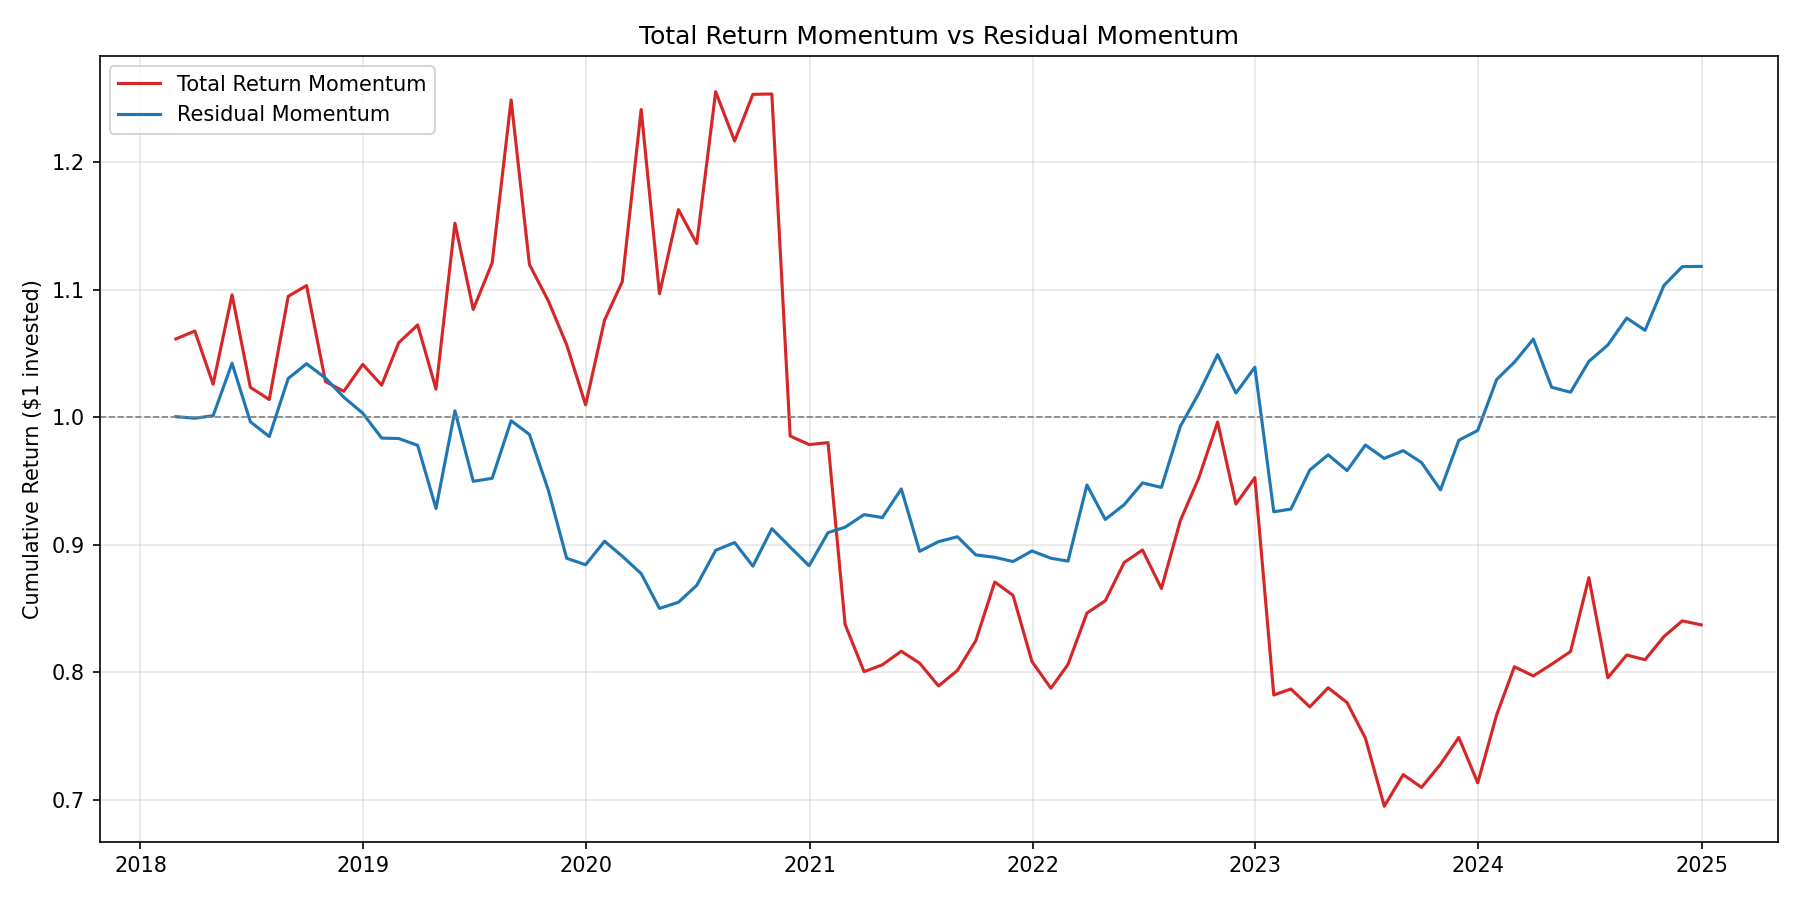
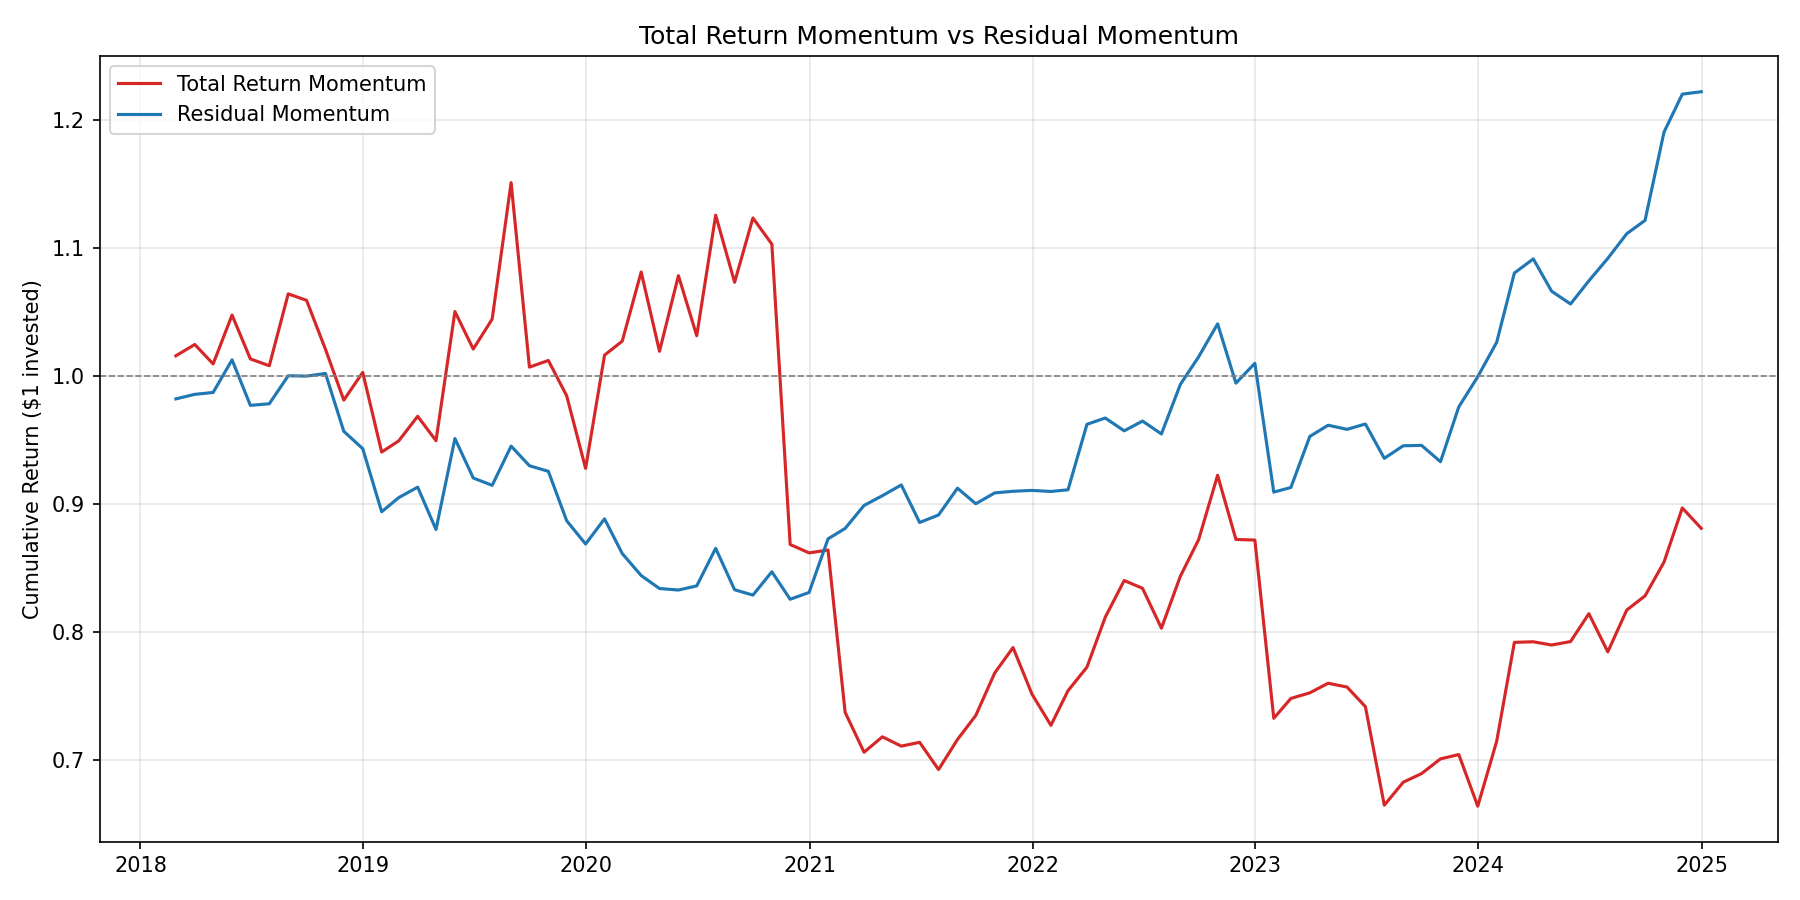
Expand to S&P 1500, add price and data quality filters
- Universe: 462 → 1469 stocks (SP500 + SP400 + SP600)
- Price filter: exclude stocks below $5 (paper uses $1)
- Data quality: exclude |monthly return| > 300% (yfinance
  corporate action errors, e.g. CHRD +30991%)
- Residual momentum Sharpe: 0.21 (K=1), 0.35 (K=3), 0.24 (K=6)
- Vol ratio ~0.50x across all holding periods
- Conditional FF R²: 0.39 (total) → 0.08 (residual)
- Total return momentum Sharpe ≈ 0 on S&P 1500; residual
  consistently positive

diff --git a/data/download_data.py b/data/download_data.py
@@ -1,61 +1,218 @@
 """
-download_data.py - Download US equity price data
+download_data.py - Download price data for S&P 500 or S&P 1500
 
-Reads S&P 500 tickers from a local CSV file and downloads
-daily close prices and volumes from Yahoo Finance.
+Usage:
+    python3 data/download_data.py              # S&P 1500 (default)
+    python3 data/download_data.py --sp500      # S&P 500 only (legacy)
 """
 import pandas as pd
 import yfinance as yf
 import os
+import sys
+import time
+import requests
+
+def _read_wiki_table(url):
+    """Fetch Wikipedia page with proper headers, return parsed tables."""
+    headers = {
+        "User-Agent": "EquityFactorResearch/1.0 (student project)"
+    }
+    resp = requests.get(url, headers=headers)
+    resp.raise_for_status()
+    return pd.read_html(resp.text)
+
+def get_sp500_tickers():
+    """Scrape current S&P 500 constituents from Wikipedia."""
+    url = "https://en.wikipedia.org/wiki/List_of_S%26P_500_companies"
+    table = _read_wiki_table(url)
+    tickers = table[0]["Symbol"].tolist()
+    tickers = [t.replace(".", "-") for t in tickers]
+    print(f"  S&P 500:  {len(tickers)} tickers")
+    return tickers
 
 
-def get_tickers():
+def get_sp400_tickers():
+    """Scrape current S&P 400 MidCap constituents from Wikipedia."""
+    url = "https://en.wikipedia.org/wiki/List_of_S%26P_400_companies"
+    table = _read_wiki_table(url)
+    # The table structure: first table has the constituents
+    # Symbol column may be named "Symbol" or "Ticker Symbol"
+    df = table[0]
+    col = [c for c in df.columns if "ymbol" in str(c) or "icker" in str(c)]
+    if col:
+        tickers = df[col[0]].tolist()
+    else:
+        # Fallback: first column is often the ticker
+        tickers = df.iloc[:, 0].tolist()
+    tickers = [str(t).strip().replace(".", "-") for t in tickers]
+    # Filter out any non-ticker entries
+    tickers = [t for t in tickers if t.isalpha() or "-" in t]
+    print(f"  S&P 400:  {len(tickers)} tickers")
+    return tickers
+
+
+def get_sp600_tickers():
+    """Scrape current S&P 600 SmallCap constituents from Wikipedia."""
+    url = "https://en.wikipedia.org/wiki/List_of_S%26P_600_companies"
+    table = _read_wiki_table(url)
+    df = table[0]
+    col = [c for c in df.columns if "ymbol" in str(c) or "icker" in str(c)]
+    if col:
+        tickers = df[col[0]].tolist()
+    else:
+        tickers = df.iloc[:, 0].tolist()
+    tickers = [str(t).strip().replace(".", "-") for t in tickers]
+    tickers = [t for t in tickers if t.isalpha() or "-" in t]
+    print(f"  S&P 600:  {len(tickers)} tickers")
+    return tickers
+
+
+def get_sp1500_tickers():
+    """Get S&P 1500 = S&P 500 + S&P 400 + S&P 600."""
+    print("Fetching S&P 1500 constituents from Wikipedia...")
+    t500 = get_sp500_tickers()
+    t400 = get_sp400_tickers()
+    t600 = get_sp600_tickers()
+
+    # Deduplicate (shouldn't overlap, but just in case)
+    all_tickers = sorted(set(t500 + t400 + t600))
+    print(f"  Combined: {len(all_tickers)} unique tickers")
+
+    # Tag each ticker with its index membership
+    tags = {}
+    for t in t500:
+        tags[t] = "SP500"
+    for t in t400:
+        tags[t] = "SP400"
+    for t in t600:
+        tags[t] = "SP600"
+
+    return all_tickers, tags
+
+
+def download_price_data(tickers, start="2015-01-01", end="2024-12-31",
+                        batch_size=100):
     """
-    Read ticker list from local CSV.
-
-    We use a static local file instead of scraping Wikipedia's S&P 500
-    page at runtime because pandas.read_html() is blocked by Wikipedia's
-    HTTP 403 policy. A local file also makes the pipeline reproducible
-    without depending on external HTML structure.
+    Download daily close prices and volumes via yfinance.
+    Downloads in batches to avoid timeouts with large ticker lists.
     """
-    df = pd.read_csv("data/sp500_tickers.csv")
-    return df["ticker"].tolist()
+    print(f"\nDownloading {len(tickers)} tickers from {start} to {end}...")
 
-def download_price_data(tickers, start="2015-01-01", end="2024-12-31"):
-    """
-    Download daily close prices and volumes.
+    all_close = []
+    all_volume = []
+    failed = []
 
-    Drops tickers with fewer than 500 days of data.
-    Returns: (close, volume) DataFrames
-    """
-    print(f"Downloading {len(tickers)} tickers from {start} to {end}...")
-    raw = yf.download(tickers, start=start, end=end,
-                      auto_adjust=True, threads=True)
+    n_batches = (len(tickers) + batch_size - 1) // batch_size
 
-    close = raw["Close"]
-    volume = raw["Volume"]
+    for i in range(0, len(tickers), batch_size):
+        batch = tickers[i:i + batch_size]
+        batch_num = i // batch_size + 1
+        print(f"  Batch {batch_num}/{n_batches}: "
+              f"{batch[0]}..{batch[-1]} ({len(batch)} tickers)")
 
+        try:
+            raw = yf.download(batch, start=start, end=end,
+                              group_by="ticker", auto_adjust=True,
+                              threads=True, progress=False)
+
+            if len(batch) == 1:
+                # yfinance returns flat columns for single ticker
+                t = batch[0]
+                if "Close" in raw.columns:
+                    close = raw[["Close"]].rename(columns={"Close": t})
+                    volume = raw[["Volume"]].rename(columns={"Volume": t})
+                    all_close.append(close)
+                    all_volume.append(volume)
+                else:
+                    failed.append(t)
+            else:
+                for t in batch:
+                    try:
+                        if (t, "Close") in raw.columns:
+                            c = raw[(t, "Close")].rename(t)
+                            v = raw[(t, "Volume")].rename(t)
+                            all_close.append(c)
+                            all_volume.append(v)
+                        else:
+                            failed.append(t)
+                    except Exception:
+                        failed.append(t)
+
+        except Exception as e:
+            print(f"    Batch failed: {e}")
+            failed.extend(batch)
+
+        # Brief pause between batches to be polite to Yahoo
+        if i + batch_size < len(tickers):
+            time.sleep(1)
+
+    # Combine
+    close = pd.concat(all_close, axis=1) if all_close else pd.DataFrame()
+    volume = pd.concat(all_volume, axis=1) if all_volume else pd.DataFrame()
+
+    if failed:
+        print(f"\n  Failed to download: {len(failed)} tickers")
+        if len(failed) <= 20:
+            print(f"    {failed}")
+
+    # Filter: require at least 500 trading days
     min_days = 500
-    close = close.loc[:, close.count() >= min_days]
-    volume = volume.loc[:, volume.count() >= min_days]
+    if not close.empty:
+        good = close.columns[close.count() >= min_days]
+        close = close[good]
+        volume = volume[[c for c in good if c in volume.columns]]
 
-    common = close.columns.intersection(volume.columns)
-    close = close[common]
-    volume = volume[common]
-
-    print(f"Kept {len(common)} tickers with >= {min_days} days of data")
-    return close, volume
+    print(f"\n  Kept {close.shape[1]} tickers with >= {min_days} days of data")
+    return close, volume, failed
 
 
 if __name__ == "__main__":
-    tickers = get_tickers()
-    close, volume = download_price_data(tickers)
+    sp500_only = "--sp500" in sys.argv
 
     os.makedirs("data", exist_ok=True)
+
+    if sp500_only:
+        print("=== S&P 500 Universe ===")
+        tickers = get_sp500_tickers()
+        tags = {t: "SP500" for t in tickers}
+        ticker_file = "data/sp500_tickers.csv"
+    else:
+        print("=== S&P 1500 Universe ===")
+        tickers, tags = get_sp1500_tickers()
+        ticker_file = "data/sp1500_tickers.csv"
+
+    # Save ticker list with index membership
+    ticker_df = pd.DataFrame([
+        {"Ticker": t, "Index": tags.get(t, "Unknown")}
+        for t in sorted(tags.keys())
+    ])
+    ticker_df.to_csv(ticker_file, index=False)
+    print(f"Saved ticker list to {ticker_file}")
+
+    # Download
+    close, volume, failed = download_price_data(sorted(tags.keys()))
+
+    # Save
     close.to_csv("data/close_prices.csv")
     volume.to_csv("data/volumes.csv")
 
-    print(f"\nClose prices: {close.shape[0]} days x {close.shape[1]} stocks")
-    print(f"Volumes:      {volume.shape[0]} days x {volume.shape[1]} stocks")
-    print(f"Date range:   {close.index[0].date()} to {close.index[-1].date()}")
-    print("Saved to data/close_prices.csv and data/volumes.csv")
+    # Summary
+    print(f"\n{'=' * 50}")
+    print(f"  Close prices: {close.shape[0]} days x {close.shape[1]} stocks")
+    print(f"  Volumes:      {volume.shape[0]} days x {volume.shape[1]} stocks")
+    print(f"  Date range:   {close.index[0].date()} to "
+          f"{close.index[-1].date()}")
+
+    # Breakdown by index
+    if not sp500_only:
+        for idx_name in ["SP500", "SP400", "SP600"]:
+            count = sum(1 for c in close.columns
+                        if tags.get(c) == idx_name)
+            print(f"  {idx_name}: {count} stocks with data")
+
+    if failed:
+        pd.Series(failed).to_csv("data/failed_tickers.csv",
+                                 index=False, header=["Ticker"])
+        print(f"  Failed tickers saved to data/failed_tickers.csv")
+
+    print(f"\nSaved to data/close_prices.csv and data/volumes.csv")

diff --git a/factors/residual_momentum.py b/factors/residual_momentum.py
@@ -98,6 +98,17 @@ def prepare_data(csv_path="data/close_prices.csv"):
               f"{common_dates[-1].strftime('%Y-%m')}")
     print(f"FF3 factors loaded: {ff3.columns.tolist()}")
 
+    # Exclude stock-months with returns beyond ±300%.
+    # CRSP handles corporate actions (ticker changes, bankruptcy
+    # re-emergences, reverse splits) correctly; yfinance does not.
+    # This filter removes data errors, not genuine returns.
+    n_before = monthly_ret.notna().sum().sum()
+    monthly_ret = monthly_ret.where(monthly_ret.abs() <= 3.0)
+    excess_ret = excess_ret.where(monthly_ret.notna())
+    n_after = monthly_ret.notna().sum().sum()
+    print(f"Data quality filter (|ret| > 300%): "
+          f"removed {n_before - n_after} stock-months")
+
     return excess_ret, ff3, monthly_ret
 
 
@@ -482,6 +493,20 @@ if __name__ == "__main__":
         excess_ret, ff3, window=36)
     sig_total_raw = compute_total_return_momentum(monthly_ret)
 
+    # Price filter: exclude stocks below $5 in any given month.
+    # Paper excludes <$1; we use $5 given shorter sample and
+    # post-2015 price levels.
+    monthly_price = pd.read_csv(
+        "data/close_prices.csv", index_col=0, parse_dates=True
+    ).resample("ME").last()
+    monthly_price.index = monthly_price.index + pd.offsets.MonthEnd(0)
+    price_ok = monthly_price.reindex(
+        index=sig_resid.index, columns=sig_resid.columns) >= 5.0
+    sig_resid = sig_resid.where(price_ok)
+    sig_total_raw = sig_total_raw.where(price_ok)
+    n_excluded = (~price_ok).sum().sum()
+    print(f"\n  Price filter (<$5): excluded {n_excluded} stock-months")
+
     # Match stock pool: only use stocks where BOTH signals exist
     sig_total = sig_total_raw.where(sig_resid.notna())
     print(f"\n  Stock-month alignment:")
@@ -638,3 +663,42 @@ if __name__ == "__main__":
             print(f"  D10 months: {len(d10_arr)}, "
                   f"avg next-mo return: {np.mean(d10_arr):.2%}, "
                   f"total contrib: {np.sum(d10_arr):.2%}")
+
+# ── Diagnostic: worst months for total return momentum ──
+    print("\n── Total Return Momentum: Worst 10 Months ──")
+    assignments_t = form_decile_assignments(sig_total, n_quantiles=10)
+
+    month_details = []
+    for t in range(len(monthly_ret)):
+        if t not in assignments_t:
+            continue
+        date = monthly_ret.index[t]
+        fwd = monthly_ret.iloc[t]
+        ranks = assignments_t[t]
+
+        d1_stocks = ranks[ranks == 1].index
+        d10_stocks = ranks[ranks == 10].index
+
+        d1_ret = fwd[d1_stocks.intersection(fwd.dropna().index)]
+        d10_ret = fwd[d10_stocks.intersection(fwd.dropna().index)]
+
+        hedge = d10_ret.mean() - d1_ret.mean()
+        month_details.append({
+            "date": date, "hedge": hedge,
+            "d1_mean": d1_ret.mean(), "d10_mean": d10_ret.mean(),
+            "d1_max": d1_ret.max(), "d1_max_tk": d1_ret.idxmax() if len(d1_ret) > 0 else "",
+            "d1_top3": d1_ret.nlargest(3),
+            "d1_count": len(d1_ret),
+        })
+
+    md = sorted(month_details, key=lambda x: x["hedge"])
+
+    for m in md[:10]:
+        print(f"\n  {m['date'].strftime('%Y-%m')}  "
+              f"Hedge: {m['hedge']:+.1%}  "
+              f"D10 avg: {m['d10_mean']:+.1%}  "
+              f"D1 avg: {m['d1_mean']:+.1%}  "
+              f"D1 stocks: {m['d1_count']}")
+        print(f"    D1 top 3 gainers (short leg killers):")
+        for tk, ret in m["d1_top3"].items():
+            print(f"      {tk:<8s} {ret:+.1%}")
